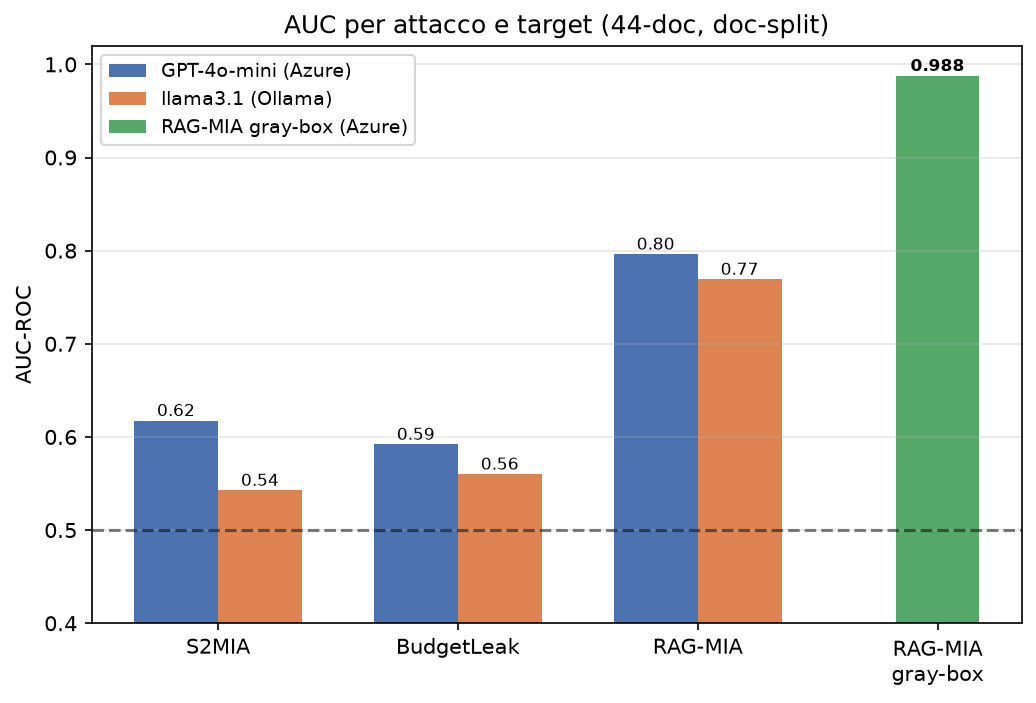
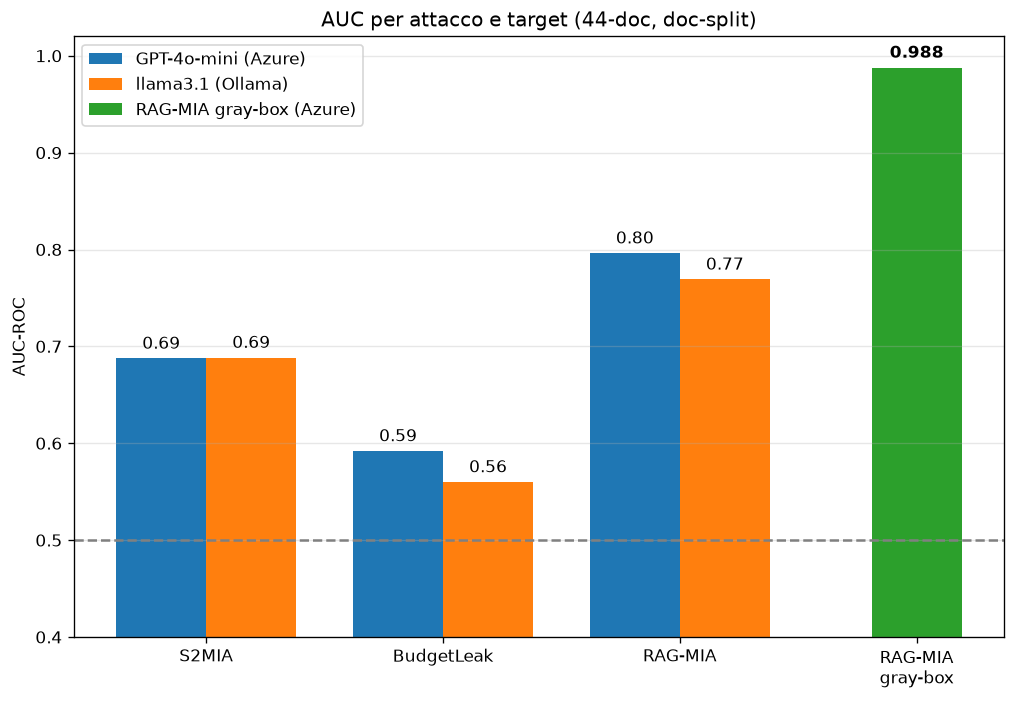
docs(plots): regenerate S2MIA figures after S²MIA-M scoring fix + add make_plots.py
auc_barchart, roc_azure, roc_ollama now reflect corrected S2MIA AUC (llama3.1 0.543->0.688, GPT-4o-mini 0.618->0.687, gray-box 0.655->0.713); RAG-MIA/BudgetLeak curves unchanged.

scripts/make_plots.py documents the explicit CSV->(attack,target) mapping (results/*.csv=Azure, results/ollama44/*.csv=Ollama), verifies AUCs, and writes results/plots/ + copies to assets/ and docs_private/plots/. THESIS.md (git-ignored) updated with corrected numbers, S²MIA-M methodology note, and test count 96.

diff --git a/scripts/make_plots.py b/scripts/make_plots.py
@@ -1,0 +1,126 @@
+# scripts/make_plots.py
+"""Rigenera i grafici della vetrina/tesi dai CSV degli attacchi (44-doc, doc-split).
+
+Mappa CSV → (attacco, target) ESPLICITA e verificata:
+- AZURE  (GPT-4o-mini): results/scores_s2mia_azure44.csv, results/scores_budgetleak.csv,
+  results/scores_rag_mia.csv, results/scores_rag_mia_graybox.csv
+- OLLAMA (llama3.1:8b): results/ollama44/scores_{s2mia,budgetleak,rag_mia}.csv
+
+Genera SOLO i 3 grafici che dipendono da S2MIA (auc_barchart, roc_azure, roc_ollama)
+dopo il fix di scoring S²MIA-M. I 3 grafici solo-RAG-MIA (roc_ragmia_graybox,
+roc_target_compare, dist_ragmia_graybox) sono invariati e NON vengono toccati.
+
+Output: results/plots/ + copia in assets/ (vetrina) e docs_private/plots/ (tesi).
+
+Uso:  OMP_NUM_THREADS=1 PYTHONPATH=src uv run python scripts/make_plots.py
+"""
+from __future__ import annotations
+import csv, shutil
+from pathlib import Path
+import matplotlib
+matplotlib.use("Agg")
+import matplotlib.pyplot as plt
+from sklearn.metrics import roc_curve, roc_auc_score
+
+ROOT = Path(__file__).resolve().parent.parent
+OUT = ROOT / "results" / "plots"
+COPY_TO = [ROOT / "assets", ROOT / "docs_private" / "plots"]
+
+def load(rel: str):
+    scores, labels = [], []
+    with (ROOT / rel).open() as f:
+        for r in csv.DictReader(f):
+            scores.append(float(r["score"])); labels.append(int(r["label"]))
+    return scores, labels
+
+def auc(rel: str) -> float:
+    s, l = load(rel); return roc_auc_score(l, s)
+
+# --- mappa esplicita ---
+AZURE = [
+    ("S2MIA",               "results/scores_s2mia_azure44.csv",   "C0"),
+    ("BudgetLeak",          "results/scores_budgetleak.csv",      "C1"),
+    ("RAG-MIA black-box",   "results/scores_rag_mia.csv",         "C2"),
+    ("RAG-MIA gray-box",    "results/scores_rag_mia_graybox.csv", "C3"),
+]
+OLLAMA = [
+    ("S2MIA",      "results/ollama44/scores_s2mia.csv",      "C0"),
+    ("BudgetLeak", "results/ollama44/scores_budgetleak.csv", "C1"),
+    ("RAG-MIA",    "results/ollama44/scores_rag_mia.csv",    "C2"),
+]
+
+def _roc_fig(curves, title, out: Path):
+    fig, ax = plt.subplots(figsize=(7, 7))
+    for name, rel, color in curves:
+        s, l = load(rel)
+        fpr, tpr, _ = roc_curve(l, s)
+        a = roc_auc_score(l, s)
+        ax.plot(fpr, tpr, color=color, lw=2, label=f"{name} (AUC={a:.3f})")
+    ax.plot([0, 1], [0, 1], ls="--", color="gray", label="random (0.5)")
+    ax.set_xlabel("False Positive Rate"); ax.set_ylabel("True Positive Rate")
+    ax.set_title(title); ax.legend(loc="lower right"); ax.grid(alpha=0.3)
+    ax.set_xlim(-0.02, 1.02); ax.set_ylim(-0.02, 1.02)
+    out.parent.mkdir(parents=True, exist_ok=True)
+    fig.savefig(out, dpi=120, bbox_inches="tight"); plt.close(fig)
+
+def make_roc_azure():
+    _roc_fig(AZURE, "ROC — target GPT-4o-mini (Azure), 44-doc doc-split",
+             OUT / "roc_azure.png")
+
+def make_roc_ollama():
+    _roc_fig(OLLAMA, "ROC — target llama3.1:8b (Ollama), 44-doc doc-split",
+             OUT / "roc_ollama.png")
+
+def make_auc_barchart():
+    import numpy as np
+    attacks = ["S2MIA", "BudgetLeak", "RAG-MIA"]
+    azure = [auc("results/scores_s2mia_azure44.csv"), auc("results/scores_budgetleak.csv"),
+             auc("results/scores_rag_mia.csv")]
+    ollama = [auc("results/ollama44/scores_s2mia.csv"), auc("results/ollama44/scores_budgetleak.csv"),
+              auc("results/ollama44/scores_rag_mia.csv")]
+    gray = auc("results/scores_rag_mia_graybox.csv")
+
+    fig, ax = plt.subplots(figsize=(10, 6.5))
+    x = np.arange(len(attacks)); w = 0.38
+    b1 = ax.bar(x - w/2, azure, w, label="GPT-4o-mini (Azure)", color="C0")
+    b2 = ax.bar(x + w/2, ollama, w, label="llama3.1 (Ollama)", color="C1")
+    xg = len(attacks)
+    b3 = ax.bar([xg], [gray], w, label="RAG-MIA gray-box (Azure)", color="C2")
+
+    for b in list(b1) + list(b2):
+        v = b.get_height()
+        ax.text(b.get_x() + b.get_width()/2, v + 0.006, f"{v:.2f}", ha="center", va="bottom")
+    for b in b3:
+        v = b.get_height()
+        ax.text(b.get_x() + b.get_width()/2, v + 0.006, f"{v:.3f}", ha="center",
+                va="bottom", fontweight="bold")
+
+    ax.axhline(0.5, ls="--", color="gray")
+    ax.set_ylabel("AUC-ROC"); ax.set_ylim(0.4, 1.02)
+    ax.set_title("AUC per attacco e target (44-doc, doc-split)")
+    ax.set_xticks(list(x) + [xg])
+    ax.set_xticklabels(attacks + ["RAG-MIA\ngray-box"])
+    ax.legend(loc="upper left"); ax.grid(axis="y", alpha=0.3)
+    (OUT).mkdir(parents=True, exist_ok=True)
+    fig.savefig(OUT / "auc_barchart.png", dpi=120, bbox_inches="tight"); plt.close(fig)
+
+def main():
+    print("AUC verificati:")
+    for tag, rel in [("azure S2MIA", "results/scores_s2mia_azure44.csv"),
+                     ("azure BudgetLeak", "results/scores_budgetleak.csv"),
+                     ("azure RAG-MIA bb", "results/scores_rag_mia.csv"),
+                     ("azure RAG-MIA gray", "results/scores_rag_mia_graybox.csv"),
+                     ("ollama S2MIA", "results/ollama44/scores_s2mia.csv"),
+                     ("ollama BudgetLeak", "results/ollama44/scores_budgetleak.csv"),
+                     ("ollama RAG-MIA", "results/ollama44/scores_rag_mia.csv")]:
+        print(f"  {tag:<22} {auc(rel):.3f}")
+    make_roc_azure(); make_roc_ollama(); make_auc_barchart()
+    made = ["roc_azure.png", "roc_ollama.png", "auc_barchart.png"]
+    for dst in COPY_TO:
+        dst.mkdir(parents=True, exist_ok=True)
+        for f in made:
+            shutil.copy2(OUT / f, dst / f)
+    print(f"rigenerati {made} in {OUT} + copiati in {[str(d) for d in COPY_TO]}")
+
+if __name__ == "__main__":
+    main()
